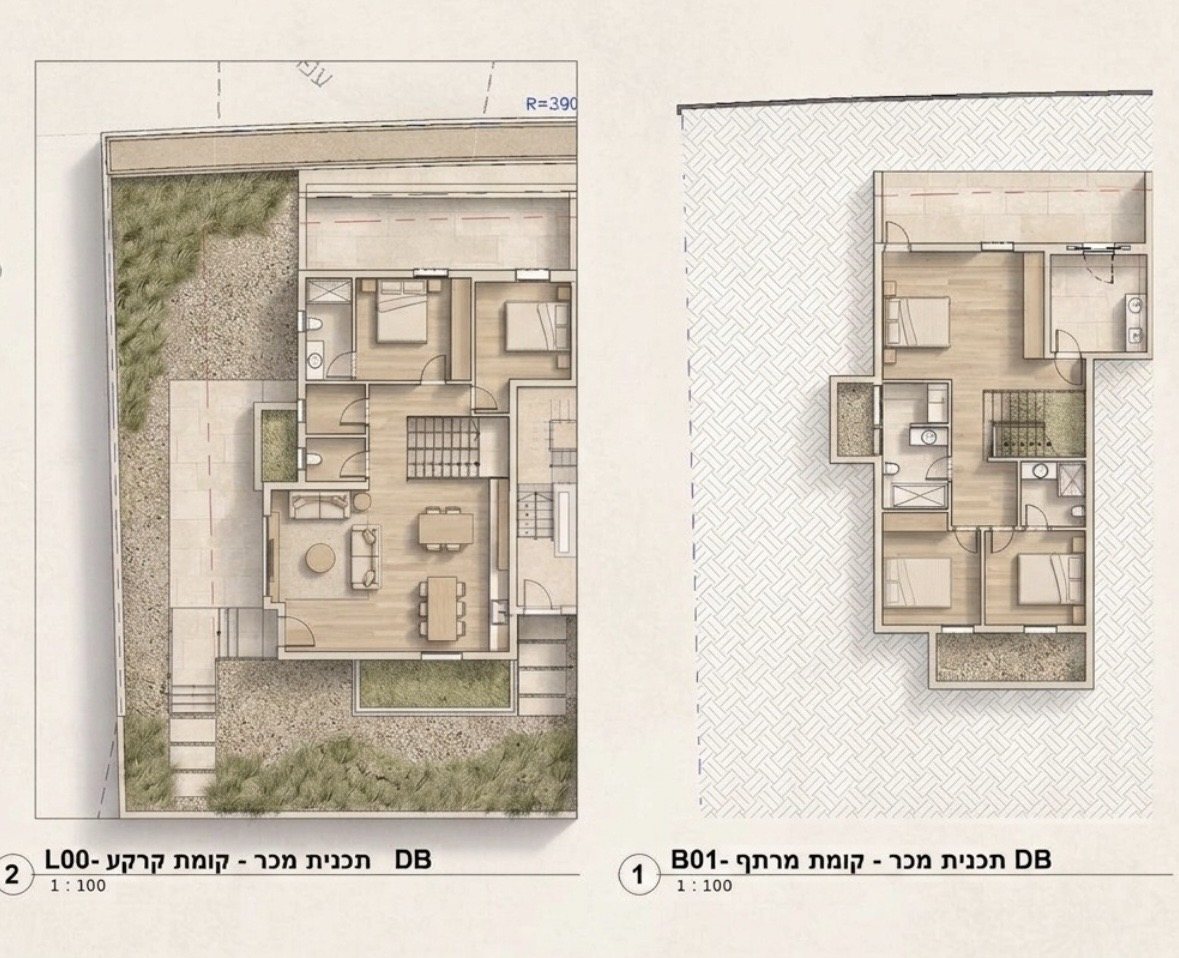
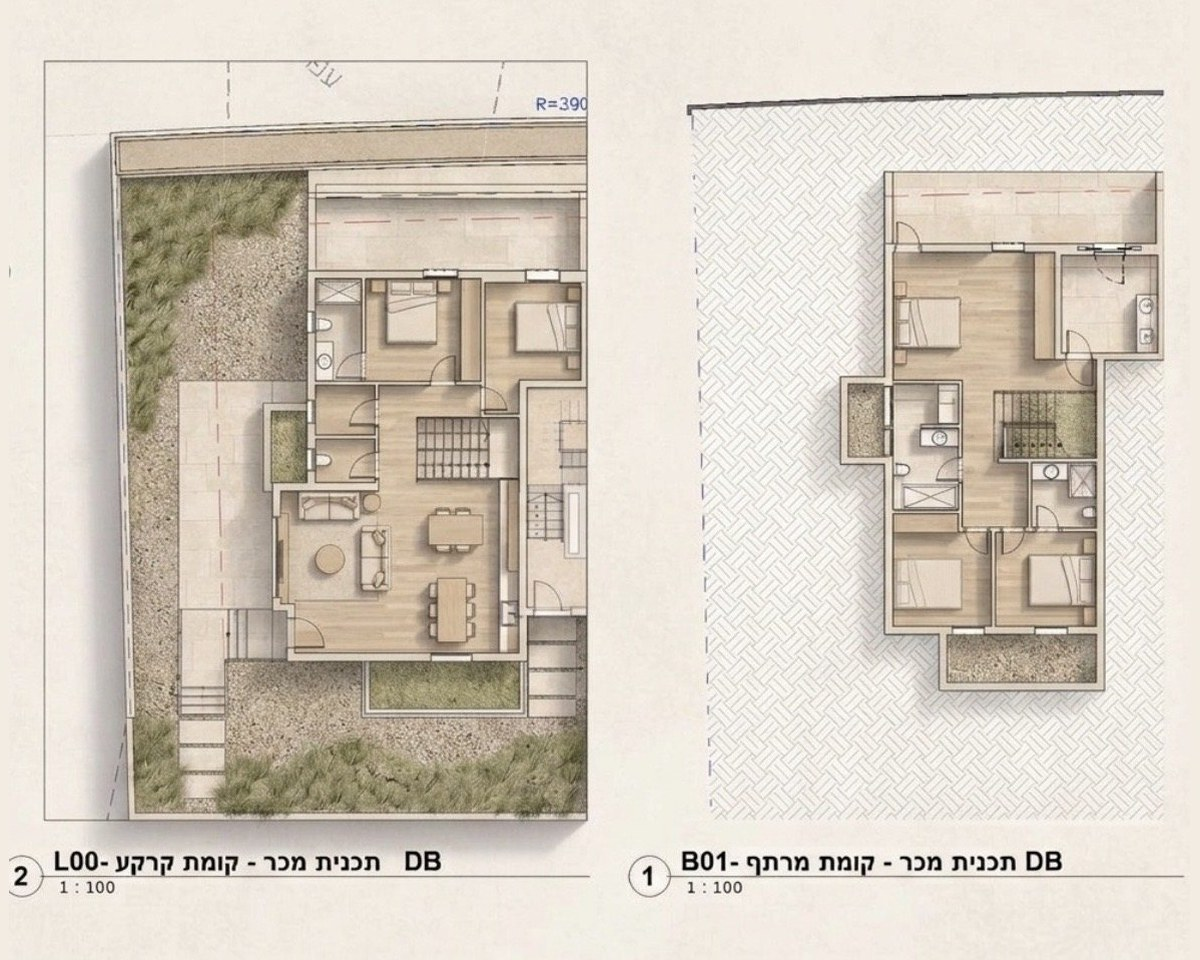
Sale plan examples: chosen line-plan crop, all three in the same 5:4 frame
Claude-Session: https://claude.ai/code/session_012ncubXX58SdvJztbLdkg2F

diff --git a/developers.html b/developers.html
@@ -147,9 +147,9 @@ document.addEventListener('click',function(e){document.querySelectorAll('details
 <div id="sale-plans" style="margin-top: 48px; scroll-margin-top: 16px">
 <p class="kick">דוגמאות לתכניות מכר</p>
 <div style="display: flex; flex-wrap: wrap; gap: 20px; align-items: flex-start">
-<figure style="flex: 1 1 300px; min-width: 0; margin: 0"><img src="img/sale-plan-model.jpg" alt="תכנית מכר של בית בשתי קומות בהדמיה תלת־ממדית בסגנון מודל" width="1158" height="810" loading="lazy" style="display: block; width: 100%; height: auto; border: 1px solid #E4DCCD"><figcaption style="margin-top: 8px; font-size: 15px; color: #5A534A">הדמיה בתלת־ממד</figcaption></figure>
-<figure style="flex: 1 1 300px; min-width: 0; margin: 0"><img src="img/sale-plan-color.jpg?v=3" alt="תכנית מכר צבעונית של קומת קרקע וקומת מרתף, עם ריהוט ופיתוח" width="1179" height="958" loading="lazy" style="display: block; width: 100%; height: auto; border: 1px solid #E4DCCD"><figcaption style="margin-top: 8px; font-size: 15px; color: #5A534A">תכנית צבעונית: קומת קרקע וקומת מרתף</figcaption></figure>
-<figure style="flex: 1 1 300px; min-width: 0; margin: 0"><img src="img/sale-plan-apartment.jpg?v=5" alt="פרט מתכנית מכר קווית של דירה: מטבח, סלון ופינת אוכל עם ריהוט ומידות חדרים" width="1040" height="1040" loading="lazy" style="display: block; width: 100%; height: auto; border: 1px solid #E4DCCD"><figcaption style="margin-top: 8px; font-size: 15px; color: #5A534A">תכנית קווית: פרט מהדירה</figcaption></figure>
+<figure style="flex: 1 1 300px; min-width: 0; margin: 0"><img src="img/sale-plan-model.jpg?v=9" alt="תכנית מכר של בית בשתי קומות בהדמיה תלת־ממדית בסגנון מודל" width="1200" height="960" loading="lazy" style="display: block; width: 100%; height: auto; border: 1px solid #E4DCCD"><figcaption style="margin-top: 8px; font-size: 15px; color: #5A534A">הדמיה בתלת־ממד</figcaption></figure>
+<figure style="flex: 1 1 300px; min-width: 0; margin: 0"><img src="img/sale-plan-color.jpg?v=9" alt="תכנית מכר צבעונית של קומת קרקע וקומת מרתף, עם ריהוט ופיתוח" width="1200" height="960" loading="lazy" style="display: block; width: 100%; height: auto; border: 1px solid #E4DCCD"><figcaption style="margin-top: 8px; font-size: 15px; color: #5A534A">תכנית צבעונית: קומת קרקע וקומת מרתף</figcaption></figure>
+<figure style="flex: 1 1 300px; min-width: 0; margin: 0"><img src="img/sale-plan-apartment.jpg?v=9" alt="פרט מתכנית מכר קווית של דירה: מטבח, סלון ופינת אוכל עם ריהוט ומידות חדרים" width="1200" height="960" loading="lazy" style="display: block; width: 100%; height: auto; border: 1px solid #E4DCCD"><figcaption style="margin-top: 8px; font-size: 15px; color: #5A534A">תכנית קווית: פרט מהדירה</figcaption></figure>
 </div>
 </div>
 </div>
